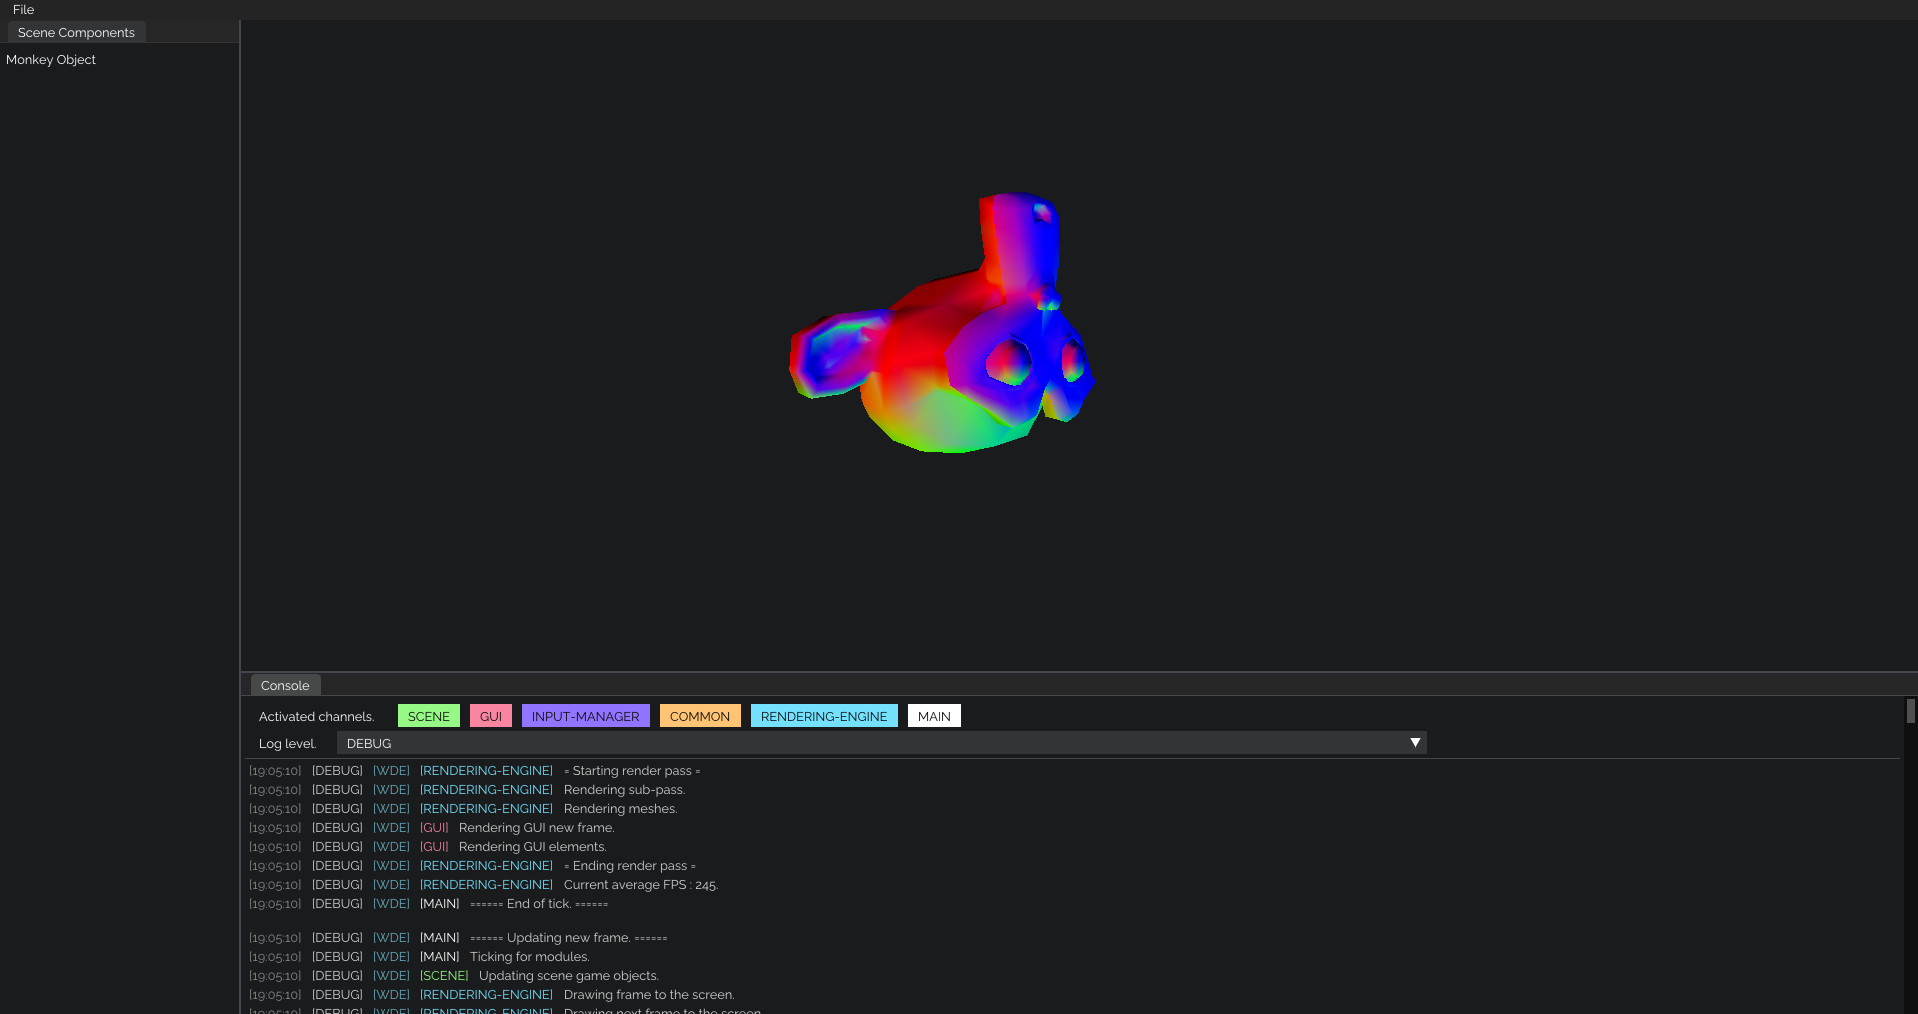
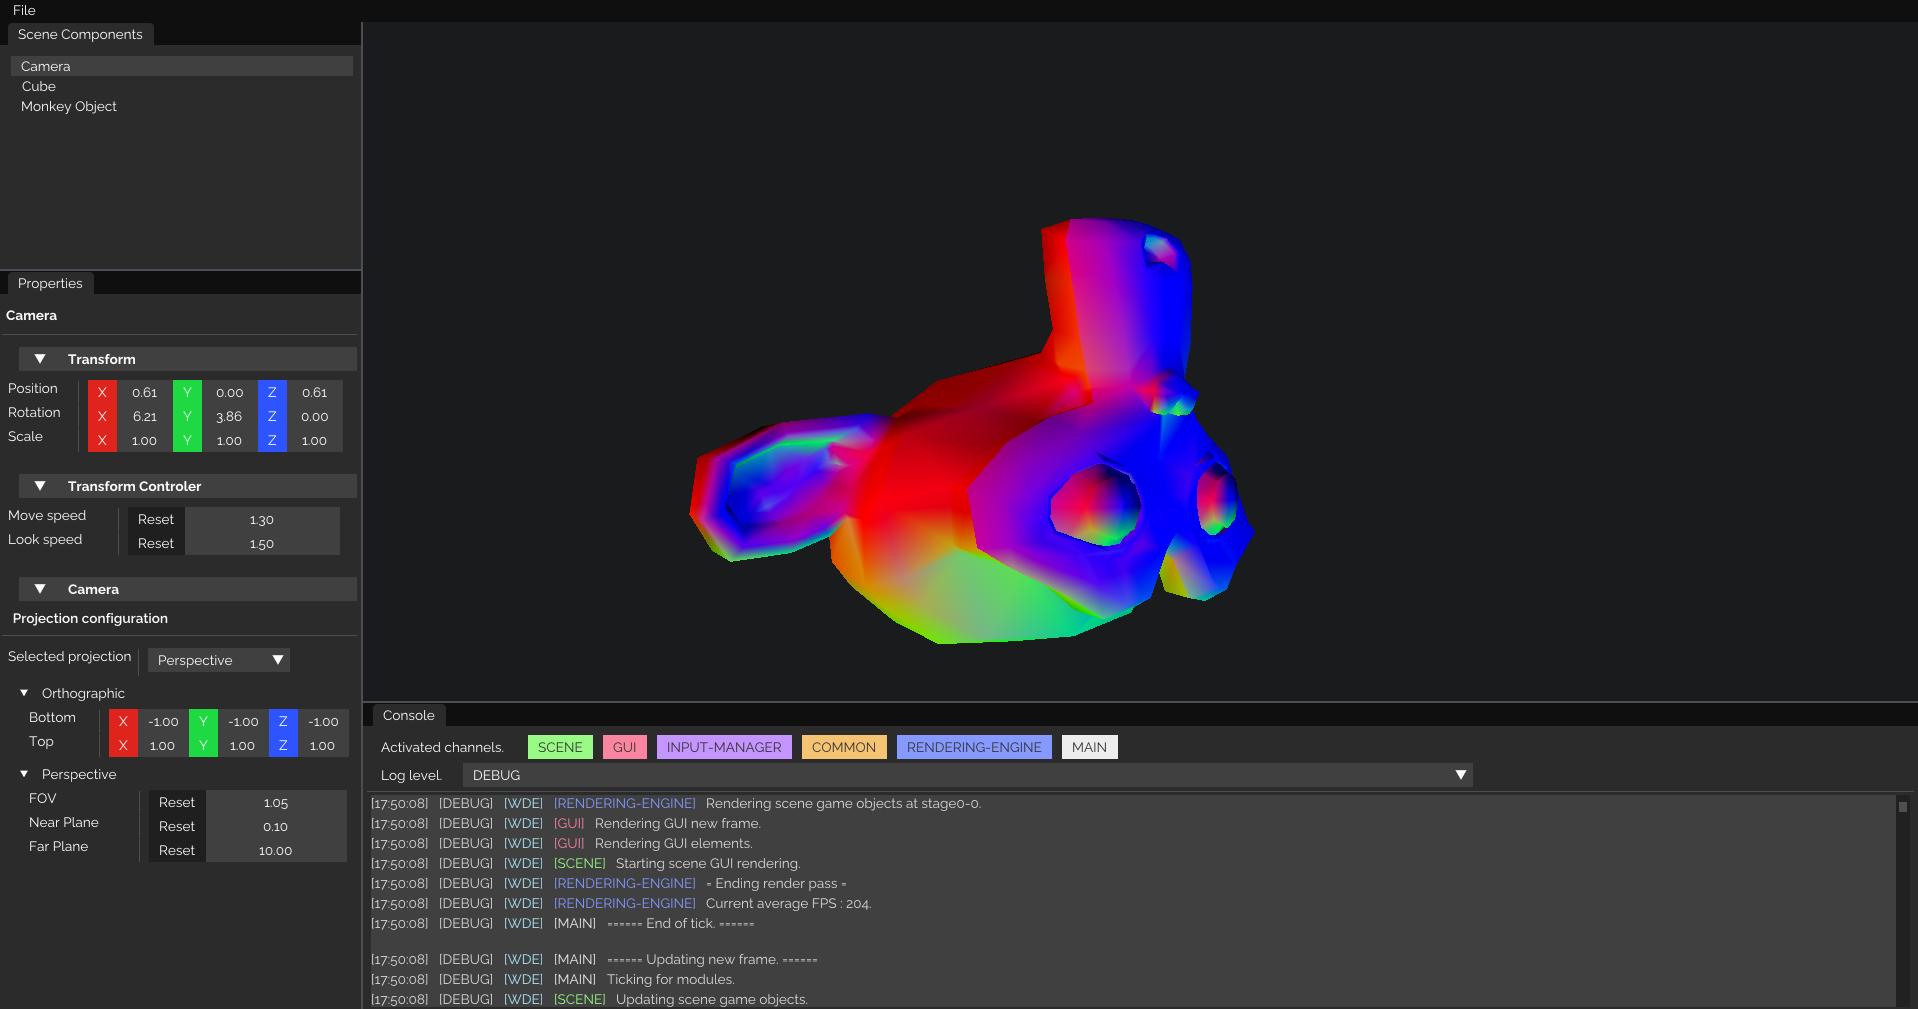
Added color material and outlined color material

diff --git a/src/WaterDropEngine/WdeScene/materials/Material.hpp b/src/WaterDropEngine/WdeScene/materials/Material.hpp
@@ -30,10 +30,14 @@ namespace wde::scene {
 			 * @param polygonMode The pipeline polygon drawing mode
 			 */
 			Material(std::string  materialName, RenderStage stage, const std::string& vertexShader, const std::string& fragmentShader, VkPolygonMode polygonMode)
-			:   _materialName(std::move(materialName)), _stage(stage), _vertexShader(vertexShader), _fragmentShader(fragmentShader), _polygonMode(polygonMode),
-				_pipeline(stage, {vertexShader, fragmentShader}, { scene::Model::Vertex::getDescriptions() },
-						  PipelineGraphics::Depth::ReadWrite, VK_PRIMITIVE_TOPOLOGY_TRIANGLE_LIST, polygonMode,
-						  VK_CULL_MODE_BACK_BIT, VK_FRONT_FACE_COUNTER_CLOCKWISE) {
+				: _materialName(std::move(materialName)),
+				  _stage(stage),
+				  _vertexShaderName(vertexShader), _fragmentShaderName(fragmentShader),
+				  _polygonMode(polygonMode),
+				  _pipeline(stage, {"res/shaders/" + vertexShader + ".spv", "res/shaders/" + fragmentShader + ".spv"},
+							{ scene::Model::Vertex::getDescriptions() },
+							PipelineGraphics::Depth::ReadWrite, VK_PRIMITIVE_TOPOLOGY_TRIANGLE_LIST, polygonMode,
+							VK_CULL_MODE_BACK_BIT, VK_FRONT_FACE_COUNTER_CLOCKWISE) {
 				WDE_PROFILE_FUNCTION();
 				// Setup push constants and initialize pipeline
 				_pipeline.addPushConstants(0, sizeof(PushConstantData));
@@ -64,8 +68,9 @@ namespace wde::scene {
 
 			// Getters and setters
 			RenderStage getStage() { return _stage; }
-			std::string& getVertexShader() { return _vertexShader; }
-			std::string& getFragmentShader() { return _fragmentShader; }
+			std::string& getMaterialName() { return _materialName; }
+			std::string& getVertexShader() { return _vertexShaderName; }
+			std::string& getFragmentShader() { return _fragmentShaderName; }
 			VkPolygonMode getPolygonMode() { return _polygonMode; }
 
 
@@ -79,8 +84,8 @@ namespace wde::scene {
 
 
 			// Pipeline parameters
-			std::string _vertexShader;
-			std::string _fragmentShader;
+			std::string _vertexShaderName;
+			std::string _fragmentShaderName;
 			VkPolygonMode _polygonMode;
 	};
 }

diff --git a/app/scene/CoreAppScene.cpp b/app/scene/CoreAppScene.cpp
@@ -8,14 +8,14 @@ void CoreAppScene::initialize() {
 
 	// Cube
 	auto& cube = createGameObject("Cube");
-	cube.addModule<ModelModule>(std::make_shared<ModelCube>(), std::make_shared<BasicMaterial>(RenderStage {0, 0}));
+	cube.addModule<ModelModule>(std::make_shared<ModelCube>(), std::make_shared<ColorMaterial>(RenderStage {0, 0}));
 	auto& cubeTransform = cube.getModule<TransformModule>();
 	cubeTransform.position = {0.0f, 0.0f, 2.5f};
 	cubeTransform.scale /= 2.0f;
 
 	// Test game object
 	auto& testGO = createGameObject("Monkey Object");
-	testGO.addModule<ModelModule>(std::make_shared<ModelLoader>("res/models/monkey_smooth.obj"), std::make_shared<BasicMaterial>(RenderStage {0, 0}));
+	testGO.addModule<ModelModule>(std::make_shared<ModelLoader>("res/models/monkey_smooth.obj"), std::make_shared<ColorMaterialOutline>(RenderStage {0, 0}));
 	testGO.getModule<TransformModule>().scale /= 5.0f;
 }
 

diff --git a/app/scene/CoreAppScene.hpp b/app/scene/CoreAppScene.hpp
@@ -7,7 +7,8 @@
 #include "../../src/WaterDropEngine/WdeScene/modules/ModelModule.hpp"
 #include "../../src/WaterDropEngine/WdeScene/modules/CameraModule.hpp"
 #include "../../src/WaterDropEngine/WdeScene/modules/TransformControllerModule.hpp"
-#include "../../src/WaterDropEngine/WdeScene/materials/BasicMaterial.hpp"
+#include "../../src/WaterDropEngine/WdeScene/materials/ColorMaterial.hpp"
+#include "../../src/WaterDropEngine/WdeScene/materials/ColorMaterialOutline.hpp"
 
 using namespace wde::scene;
 

diff --git a/src/WaterDropEngine/WdeScene/materials/ColorMaterialOutline.hpp b/src/WaterDropEngine/WdeScene/materials/ColorMaterialOutline.hpp
@@ -1,0 +1,12 @@
+#pragma once
+
+#include <vulkan/vulkan_core.h>
+
+namespace wde::scene {
+	class ColorMaterialOutline : public Material {
+	public:
+		explicit ColorMaterialOutline(RenderStage stage)
+			: Material("Color Material Outlined", stage, "colorShader.vert", "colorShader.frag", VK_POLYGON_MODE_LINE) {}
+	};
+}
+

diff --git a/src/WaterDropEngine/WdeScene/materials/ColorMaterial.hpp b/src/WaterDropEngine/WdeScene/materials/ColorMaterial.hpp
@@ -1,0 +1,10 @@
+#pragma once
+
+namespace wde::scene {
+	class ColorMaterial : public Material {
+		public:
+			explicit ColorMaterial(RenderStage stage)
+				: Material("Color Material", stage, "colorShader.vert", "colorShader.frag", VK_POLYGON_MODE_FILL) {}
+	};
+}
+
